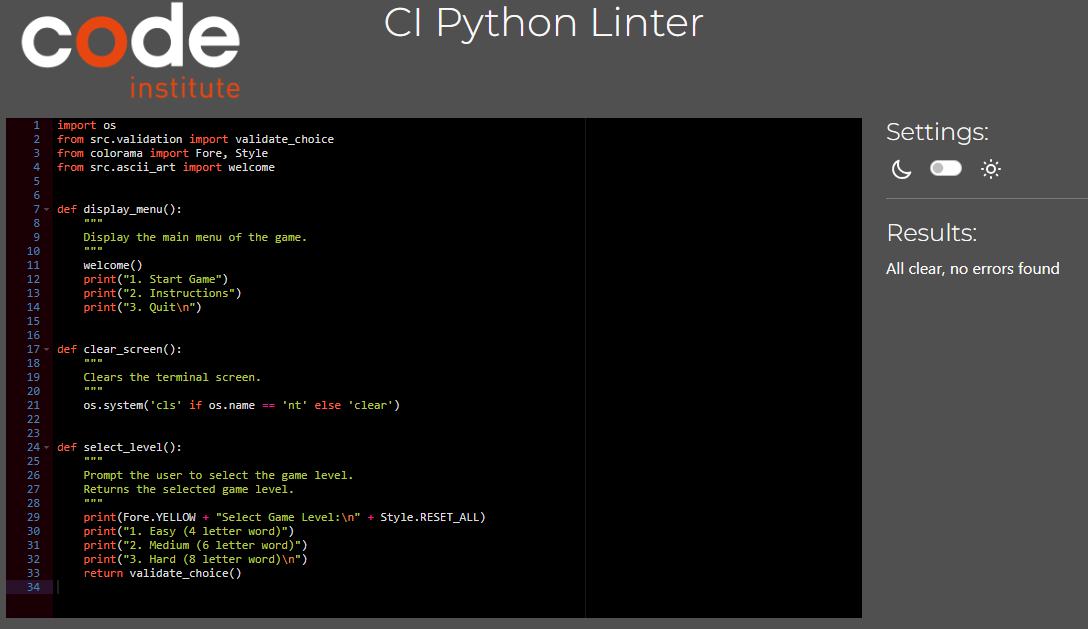
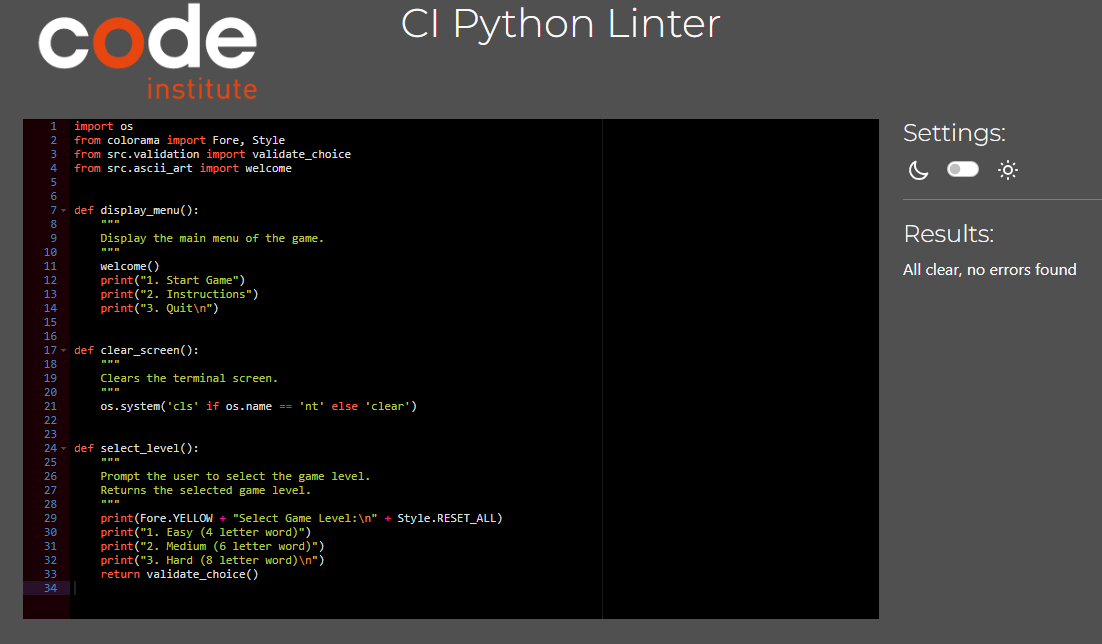
README: Update screenshots for code validation.

Changed region(s): [[0.0, 0.0, 1.0, 0.9968], [0.3438, 0.0, 0.6562, 0.0604]]

diff --git a/src/api.py b/src/api.py
@@ -10,7 +10,7 @@ def get_words_from_api(level):
     if failed, uses backup words from words.py
     """
     API_URL = "https://random-word-api.herokuapp.com/word?lang=en&number=10"
-    try:     
+    try:
         if level == 1:  # Easy level
             response = requests.get(API_URL + "&length=4", timeout=5)
         elif level == 2:  # Medium level

diff --git a/src/instructions.py b/src/instructions.py
@@ -7,6 +7,6 @@ def get_instructions():
     """
     print(Fore.YELLOW + "Instructions:\n" + Style.RESET_ALL)
     print("1. Select 1 to Start Game.")
-    print("2. Select a level")
+    print("2. Select a level.")
     print("3. Enter a single letter guess and press enter.")
     print("4. Quess letters until attempts run out or you guess the word.\n")

diff --git a/src/utils.py b/src/utils.py
@@ -1,6 +1,6 @@
 import os
-from src.validation import validate_choice
 from colorama import Fore, Style
+from src.validation import validate_choice
 from src.ascii_art import welcome
 
 

diff --git a/README.md b/README.md
@@ -21,8 +21,7 @@ The goal of this project is to create a Python based terminal game of hangman. T
     - [Features to be implemented](#features-to-be-implemented)
 - [Technologies used](#technologies-used)
     - [Languages](#languages)
-    - [Libraries & Framework](#libraries--framework)
-    - [Tools](#tools)
+    - [Tools & Libraries](#tools--libraries)
 - [Testing](#testing)
     - [Code Validation](#code-validation)
     - [Features Testing](#features-testing)
@@ -267,11 +266,10 @@ I used [Lucid charts](https://www.lucidchart.com/pages/) to design the flow char
 ### Tools & Libraries
 
 * [Colorama](https://pypi.org/project/colorama/)
-* [ASCII Generator](https://pypi.org/project/pyfiglet/)
+* [ASCII Art Generator](https://pypi.org/project/pyfiglet/)
 * [API Requests](https://pypi.org/project/requests/)
 * [OS](https://pypi.org/project/os-sys/)
 * [Math Random](https://www.w3schools.com/python/module_random.asp)
-* [pyfiglet](https://www.geeksforgeeks.org/python-ascii-art-using-pyfiglet-module/)
 * [Random words API](https://random-word-api.herokuapp.com/home)
 * [Lucid Charts](https://www.lucidchart.com/pages/)
 * [Python Validator](https://pep8ci.herokuapp.com/)
